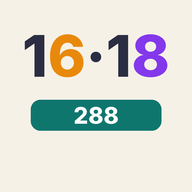
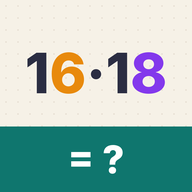
App 2.14: Symbol wie das Vorschaubild (16·18, grüne Leiste „= ?“)
Nutzerwahl 06.11.; Name unter dem Symbol bleibt „Kopfrechnen“.

Claude-Session: https://claude.ai/code/session_01LHRCLsibWAQem4TAEuck6M

diff --git a/uebung/index.html b/uebung/index.html
@@ -286,7 +286,7 @@ button { font: inherit; color: inherit; border: 0; background: none; cursor: poi
 
 <script src="aufgaben.js"></script>
 <script>
-const APP_VERSION = '2.13';          // bei JEDER Änderung hochzählen
+const APP_VERSION = '2.14';          // bei JEDER Änderung hochzählen
 const $ = s => document.querySelector(s);
 const ANZAHL = 10;
 // Ziel in Sekunden je Aufgabe, je Stufe (Nutzerentscheidung 05.11.: „Alle Zahlen“ 4 s wie im Video, Sonderfall 3 s)

diff --git a/uebung/tools/icon.py b/uebung/tools/icon.py
@@ -1,35 +1,50 @@
 #!/usr/bin/env python3
-"""Home-Bildschirm-Symbol: „16·18“ in den Videofarben auf Papiergrund, darunter ein dunkelgrüner Balken.
+"""Home-Bildschirm-Symbol (Nutzerwahl 06.11., Symbol 2 „wie Vorschaubild“): Papiergrund mit feinem Punktraster, oben
+„16·18“ in den Videofarben, unten die grüne Leiste mit „= ?“ – wie Vorschaubild und App-Kopf.
+
+Kein Name des Tricks im Symbol: Die App enthält später alle Tricks, und auf dem Home-Bildschirm wäre Schrift in dieser
+Größe nicht lesbar. Der Name unter dem Symbol kommt aus manifest.webmanifest (short_name „Kopfrechnen“).
+
 Aufruf: python3 tools/icon.py (aus dem Ordner uebung/)"""
 import subprocess
 from PIL import Image, ImageDraw, ImageFont
 
+
 def fc(n):
     return subprocess.check_output(['fc-match', '-f', '%{file}', n]).decode()
 
-F = fc('Inter:extrabold')
 
-def symbol(groesse, rand):
+F = fc('Inter:extrabold')
+PAPIER, INK, TEAL, OR, VI = (246, 241, 231), (43, 45, 66), (15, 118, 110), (232, 137, 12), (131, 56, 236)
+
+
+def symbol(groesse, inhalt=1.0):
+    """inhalt < 1 rückt Schrift zur Mitte (maskierbares Symbol: alles Wichtige im inneren Kreis)."""
     k = 4
     s = groesse * k
-    img = Image.new('RGB', (s, s), (246, 241, 231))
-    d = ImageDraw.Draw(img)
-    inner = s - 2 * rand * k
-    f = ImageFont.truetype(F, int(inner * 0.30))
-    teile = [('1', (43, 45, 66)), ('6', (232, 137, 12)), ('·', (43, 45, 66)), ('1', (43, 45, 66)), ('8', (131, 56, 236))]
+    img = Image.new('RGB', (s, s), PAPIER)
+    d = ImageDraw.Draw(img, 'RGBA')
+    schritt = s / 16
+    for i in range(16):
+        for j in range(16):
+            x, y = (i + .5) * schritt, (j + .5) * schritt
+            d.ellipse([x - s / 340, y - s / 340, x + s / 340, y + s / 340], fill=(120, 100, 70, 40))
+    leiste = s * (0.5 + 0.16 * inhalt)                    # Oberkante der grünen Leiste
+    d.rectangle([0, leiste, s, s], fill=TEAL)
+    f = ImageFont.truetype(F, int(s * 0.29 * inhalt))
+    teile = [('1', INK), ('6', OR), ('·', INK), ('1', INK), ('8', VI)]
     breite = sum(d.textlength(t, font=f) for t, _ in teile)
-    x, y = (s - breite) / 2, s * 0.40
+    x, y = (s - breite) / 2, s * (0.5 - 0.12 * inhalt)
     for t, c in teile:
-        d.text((x, y), t, font=f, fill=c, anchor='ls')
+        d.text((x, y), t, font=f, fill=c, anchor='lm')
         x += d.textlength(t, font=f)
-    d.rounded_rectangle([s * 0.5 - inner * 0.34, s * 0.52, s * 0.5 + inner * 0.34, s * 0.52 + inner * 0.16],
-                        radius=inner * 0.05, fill=(15, 118, 110))
-    f2 = ImageFont.truetype(F, int(inner * 0.12))
-    d.text((s / 2, s * 0.52 + inner * 0.08), '288', font=f2, fill=(255, 255, 255), anchor='mm')
+    d.text((s / 2, (leiste + s) / 2), '= ?', font=ImageFont.truetype(F, int(s * 0.2 * inhalt)),
+           fill=(255, 255, 255), anchor='mm')
     return img.resize((groesse, groesse), Image.LANCZOS)
 
-symbol(180, 0).save('apple-touch-icon.png')
-symbol(192, 0).save('icon-192.png')
-symbol(512, 0).save('icon-512.png')
-symbol(512, 60).save('icon-maskable.png')
+
+symbol(180).save('apple-touch-icon.png')
+symbol(192).save('icon-192.png')
+symbol(512).save('icon-512.png')
+symbol(512, 0.8).save('icon-maskable.png')
 print('Symbole geschrieben')

diff --git a/CLAUDE.md b/CLAUDE.md
@@ -71,7 +71,9 @@ nachziehen.
 - **Zu jedem Mathe-Video eine Übung** in der App `uebung/` (Nutzerwunsch 04.11.: 10 Aufgaben, tippen oder sprechen,
   richtig gezählt, Ø-Zeit). **Eine App mit vielen Übungen, nicht viele Apps** (06.11.: ein Symbol auf dem Handy, ein
   Sprachmodell-Download, ein Update-Mechanismus). Startseite der App im Stil des Vorschaubilds (Nutzerwahl 06.11.: Aufgabe groß mit „= ?“, grüne Leiste
-  mit dem Namen des Tricks darüber).
+  mit dem Namen des Tricks darüber). App-Symbol wie das Vorschaubild (Nutzerwahl 06.11.: „16·18“, grüne Leiste mit „= ?“,
+  `uebung/tools/icon.py`); Name unter dem Symbol „Kopfrechnen“, kein Trickname und keine Nummer, weil die App alle Tricks
+  enthält. Ob die Tricks nummeriert werden („Trick 1“), entscheidet der Nutzer nach Sichtung der ganzen Serie.
   Neue Übung in `uebung/aufgaben.js`, `APP_VERSION` hochzählen,
   `node uebung/tests/uebung.mjs` muss „Alles grün“ melden.
 - **Zielgruppe: Jugendliche ab 13 und Erwachsene, „nicht speziell für Kinder“** (Nutzerentscheidung 06.11.): Kanal und

diff --git a/uebung/LIESMICH.md b/uebung/LIESMICH.md
@@ -60,6 +60,8 @@ springt nicht. Eigene Zeile nur noch bei einem Fehler. Zeile „Ergebnis“ leic
 Kopf wie das YouTube-Vorschaubild (Nutzerwahl 06.11., v2.11: „B ist viel besser“): Aufgabe der gewählten Stufe groß
 mit „= ?“, darunter die grüne Leiste mit „Zehner-Trick“ und „KOPFRECHNEN“; Kacheln nur mit Name, Ziel und Bestzeit.
 Der Entwurf „Karten“ ist entfernt.
+v2.14 (Nutzerwahl 06.11.): neues Symbol wie das Vorschaubild (`tools/icon.py`); auf dem iPhone erst nach Löschen und neu
+„Zum Home-Bildschirm“ sichtbar.
 v2.13 (Nutzerwahl 06.11.): grüner Balken mit „Zehner-Trick“ und „KOPFRECHNEN“ steht über der großen Aufgabe (Name zuerst).
 
 **Video ↔ App (v2.12, Nutzer 06.11., Plan strategie/video_app_vernetzung.pdf):** je Übung in aufgaben.js `kurz` (Direktlink
